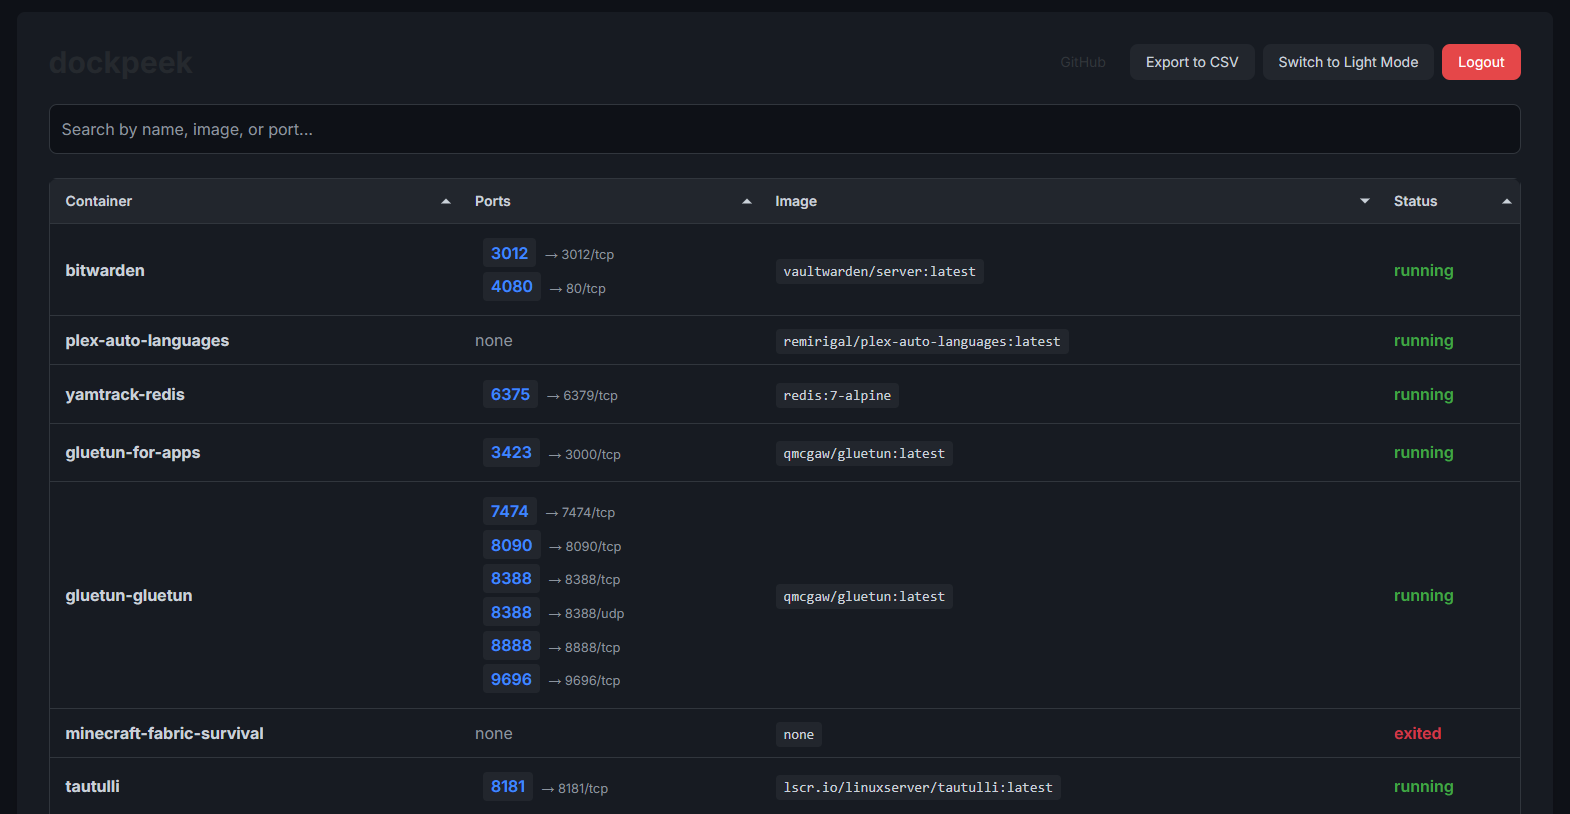
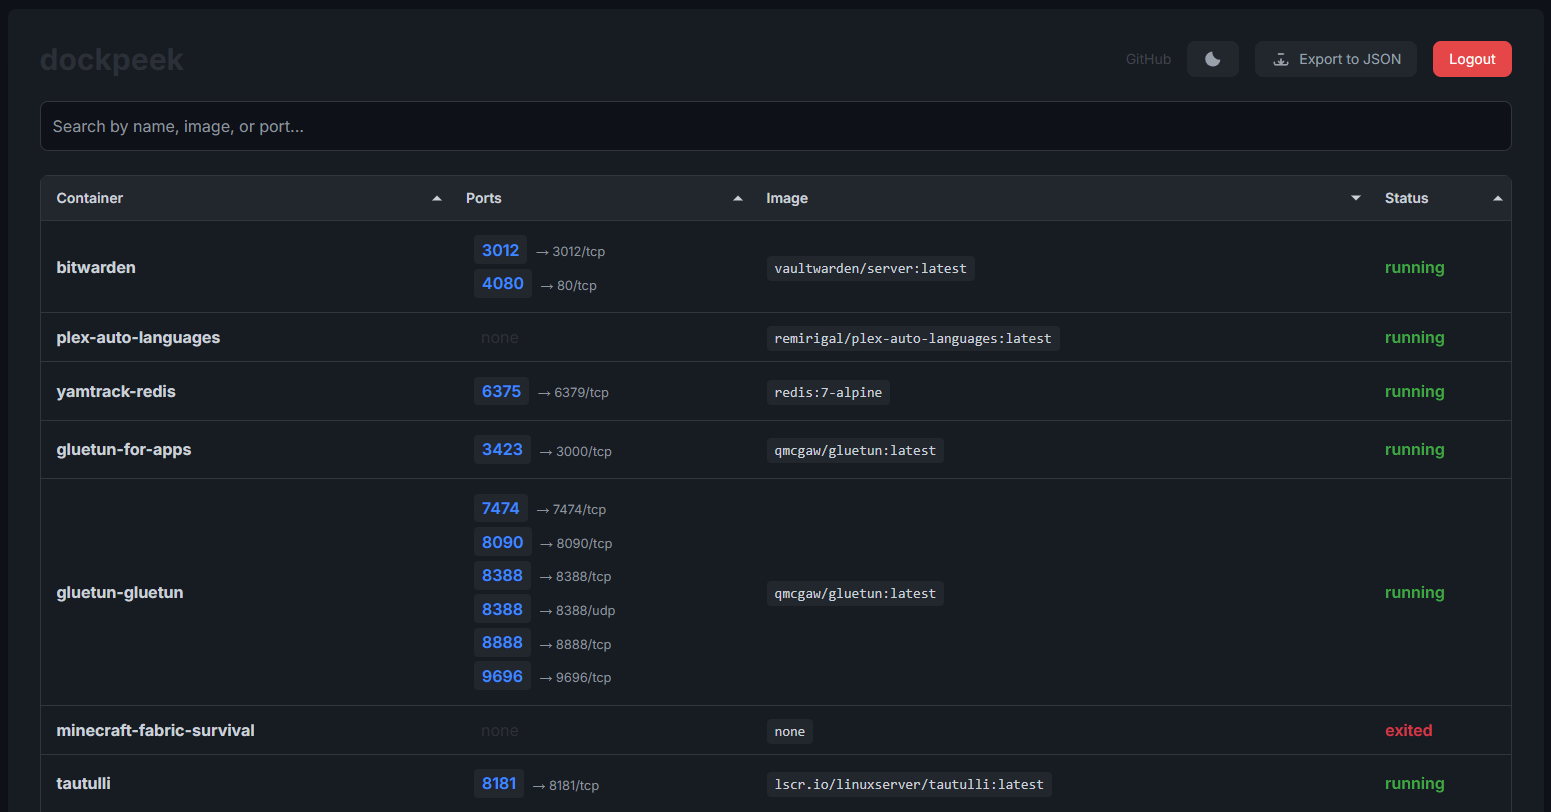
styles, readme.md

diff --git a/templates/index.html b/templates/index.html
@@ -24,30 +24,31 @@
     }
 
     .logo-title {
-      display: flex;
-      align-items: center;
-      gap: 0.5rem;
       color: #e1e4e8;
     }
     body.dark-mode .logo-title {
       color: #2a2f37;
     }
     .github {
-      display: flex;
-      align-items: center;
-      gap: 0.5rem;
       color: #acb1b9;
     }
     body.dark-mode .github {
-      color: #40444d;
+      color: #6a737d;
     }
 
     .status-none {
-      color: #d3d6db;
+      color: #b8bcc3;
     }
 
     body.dark-mode .status-none {
-      color: #2d3139;
+      color: #474c55;
+    }
+
+     .data-content-name {
+      color: #30363d;
+    }
+    body.dark-mode .data-content-name {
+      color: #c9d1d9;
     }
 
     .text-gray-800 {
@@ -448,7 +449,7 @@
 
   <template id="container-row-template">
     <tr class="hover:bg-gray-50 transition duration-150 ease-in-out">
-      <td class="py-3 px-4 border-b border-gray-200 font-bold text-gray-900" data-content="name">
+      <td class="data-content-name py-3 px-4 border-b border-gray-200 font-bold" data-content="name">
       </td>
       <td class="py-3 px-4 border-b border-gray-200" data-content="ports">
       </td>

diff --git a/README.md b/README.md
@@ -2,35 +2,36 @@
 
 # dockpeek
 
-**dockpeek** is a lightweight web-based dashboard for quickly checking the status and port mappings of your Docker containers. It provides a simple interface to monitor your Dockerized services.
+**dockpeek** is a lightweight, dashboard for monitoring Docker containers. With an simple UI and built-in authentication, it allows users to inspect container statuses and port mappings securely.
 
 ---
 
-## ✨ Key Features
+## Features
 
--   **Port Mapping Visibility**: Clearly see host ports and their corresponding container ports, simplifying service access and networking.
--   **Container Overview**: Get a quick glance at all your Docker containers.
--   **Basic Authentication**: A simple username/password login secures access to your dashboard.
--   **Secure Docker Socket Access**: Utilizes a secure proxy (socket-proxy) for Docker API communication, limiting `dockpeek`'s permissions to only essential read-only operations.
+* **Port Mapping Visibility** — Maps host → container ports with clickable links
+* **Container Overview** — Instantly see all running/stopped containers
+* **Security-Oriented Design** — Supports `socket-proxy` for read-only Docker access
+* **Export Data** — Easily export container information in JSON format
+* **Login Authentication** — Simple username/password access
+* **Dark Mode Support** — Theme toggle with persistence
 
 ---
 
 ## 📸 Screenshots
 
 <p align="left">
-  <img src="screenshot.png" alt="Night mode" width="800" />
+  <img src="screenshot.png" alt="Night mode" width="800" />
 </p>
 
 ---
 
-## Installation & Usage
-💡 Deployment Options
+## Getting Started
 
-`dockpeek` can be deployed in two ways. **It is strongly recommended to use the configuration with `socket-proxy` due to enhanced security.**
+### Deployment Options
 
-#### Recommended Configuration (with `socket-proxy`)
+> **Recommended:** Use `socket-proxy` for secure access to Docker API.
 
-This configuration is recommended as it utilizes the `socket-proxy` container as a secure intermediary for accessing the Docker daemon. `socket-proxy` limits `dockpeek`'s permissions exclusively to essential read-only operations (e.g., viewing containers and images), thereby minimizing potential security risks.
+### 🔧 Option 1: Secure Setup (with `socket-proxy`)
 
 ```yaml
 services:
@@ -38,19 +39,19 @@ services:
     image: ghcr.io/dockpeek/dockpeek:latest
     container_name: dockpeek
     environment:
-      - SECRET_KEY=my_secret_key   # Set a strong secret key
+      - SECRET_KEY=my_secret_key   # Set secret key
       - USERNAME=admin             # Change default username
       - PASSWORD=admin             # Change default password
-      - DOCKER_HOST=tcp://socket-proxy:2375
+      - DOCKER_HOST=tcp://dockpeek-socket-proxy:2375
     ports:
       - "3420:8000"
     depends_on:
-      - socket-proxy
+      - dockpeek-socket-proxy
     restart: unless-stopped
 
-  socket-proxy:
+  dockpeek-socket-proxy:
     image: lscr.io/linuxserver/socket-proxy:latest
-    container_name: socket-proxy
+    container_name: dockpeek-socket-proxy
     environment:
       - CONTAINERS=1
       - IMAGES=1
@@ -58,19 +59,18 @@ services:
       - VERSION=1
       - LOG_LEVEL=info
     volumes:
-      - /var/run/docker.sock:/var/run/docker.sock:ro 
+      - /var/run/docker.sock:/var/run/docker.sock:ro
     read_only: true
     tmpfs:
       - /run
     ports:
       - "2375:2375"
     restart: unless-stopped
-
 ```
 
-#### Alternative Configuration (without `socket-proxy` - **NOT RECOMMENDED!**)
+### Option 2: Direct Access (without proxy)
 
-This configuration is simpler but carries significant security risks, as `dockpeek` gains full access to the host's Docker daemon.
+> **⚠ Not Recommended:** Grants full access to Docker Socket.
 
 ```yaml
 services:
@@ -78,7 +78,7 @@ services:
     image: ghcr.io/dockpeek/dockpeek:latest
     container_name: dockpeek
     environment:
-      - SECRET_KEY=my_secret_key   # Set a strong secret key
+      - SECRET_KEY=my_secret_key   # Set secret key
       - USERNAME=admin             # Change default username
       - PASSWORD=admin             # Change default password
     ports:
